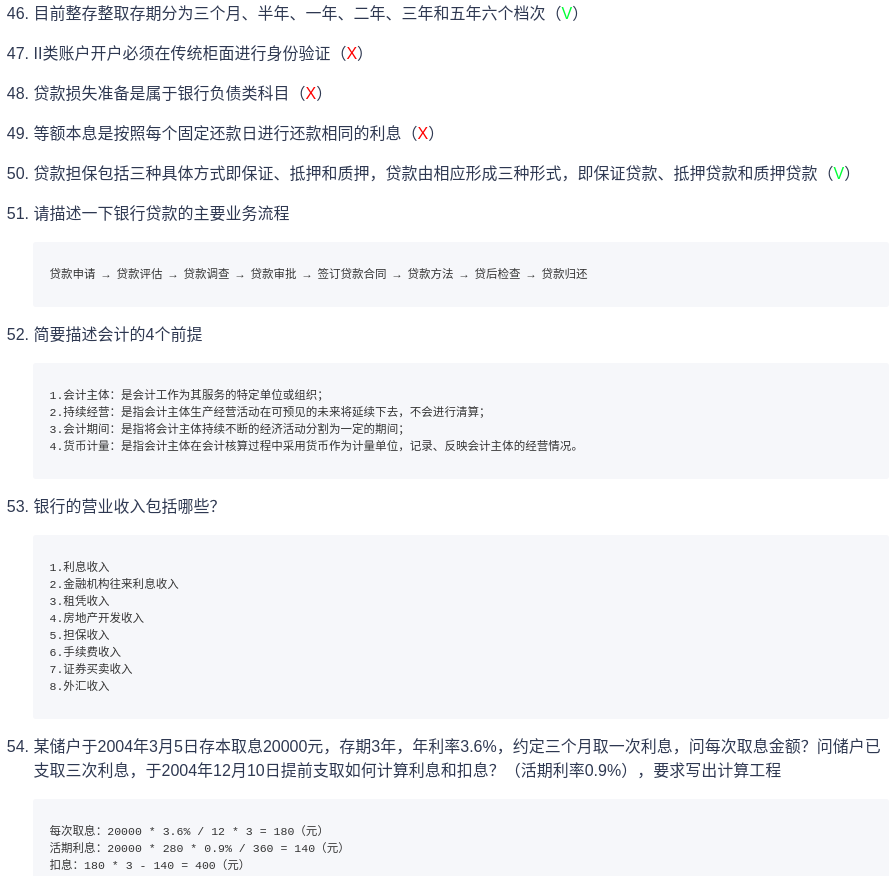
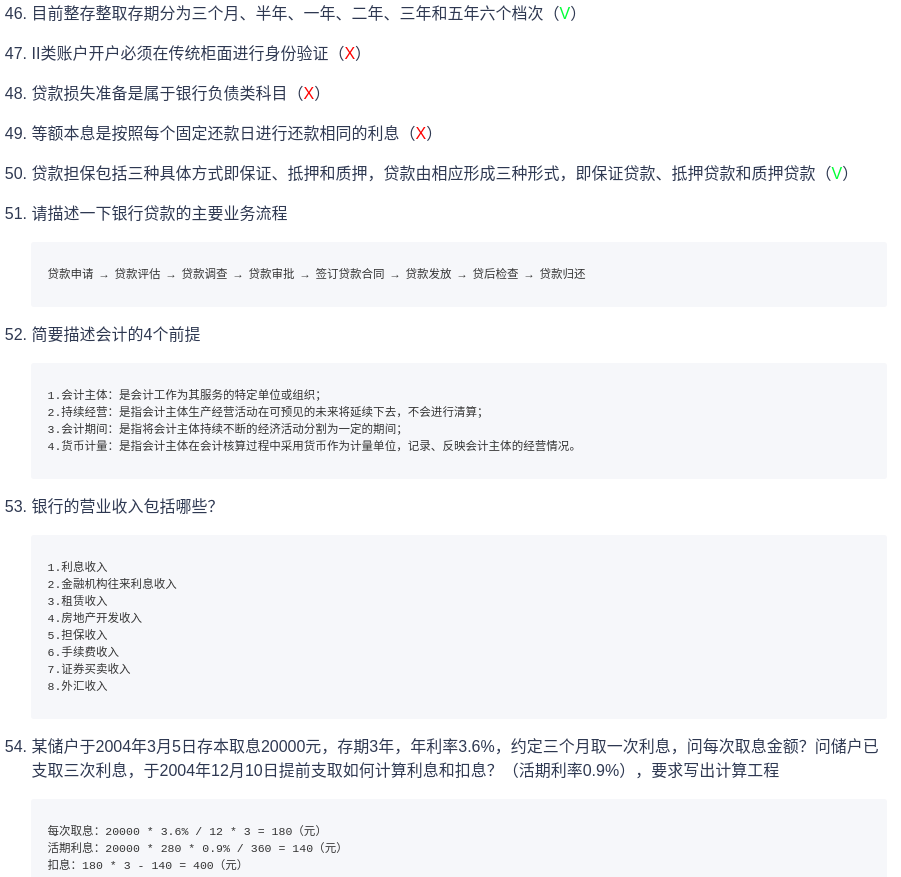
update 2020-12-23 08:55

diff --git a/source/_posts/DCITS.md b/source/_posts/DCITS.md
@@ -891,3 +891,121 @@ III类 | 同II类 | 限定金额的消费和缴费支付 | 账户余额不得超
 4. 逾期
     借：贷款-信用逾期贷款→资产性质的增加
     贷：贷款-信用贷款→资产性质的减少
+
+## 测试
+3. 所有者在企业资产中享有的经济效益是<u>**C.所有者权益**</u>
+4. 企业为取得收入而消耗的资产货币数额称为<u>**C.费用**</u>
+5. 开户单位之间的经济往来，除按规定的范围可以使用现金外，应当通过(<u>**C.开户银行**</u>)进行转账结束？
+6. 非盈利性单位经常用那种原则记账？<u>**D.收付实现制**</u>  权责发生制 应收应付制 划分收益性支出和资本性支出 收付实现制
+7. 汇票按照付款人不同，划分为？<u>**B.银行汇票和商业汇票**</u>
+8. 应收、应付、实收、实付分别属于？<u>**资产、负债、负债、资产**</u> 
+9. 负债的形成一定是由于？<u>**C.过去的交易、事项形成的现时义务**</u>
+10. 下列各项中，不属于资产类科目的是？<u>**B.预收账款**</u>
+11. 下列关于所有者权益类账户结构的表述中，正确的是？<u>**C.增加记贷方**</u>
+12. 企业库存现金账户期初余额为5000，本期增加发生额为3000，期末余额为2000，则本期减少发生额为()元？<u>**D.6000**</u>
+13. 我国现行的金融体制是以()为中央银行，国有商业银行为主体，各种金融并存...？<u>**C.人民银行**</u>
+14. 商业承兑汇票是由()印发和()承兑的？<u>**B.在银行开立账户的法人或其他组织、企业**</u>
+15. 支票是出票人签发的，委托办理支票存款业务的银行会其它金融机构在见票是()确定的金额给收款人或持票人的票据？<u>**D.无条件支付**</u>
+16. 票据贴现中再贴现的是？<u>**商业银行将汇票转让中央银行**</u>
+17. 下列哪项不是支票的种类？<u>**C.银行支票**</u>
+18. 银行最基本的职能是？<u>**D.信用中介**</u>
+19. ()是出票人（企业或银行）签发的，委托付款人在见票时或者在指定日期无条件支付确定的给收款人或持票人的票据？<u>**B.汇票**</u>
+20. 当商业银行在计算定期存款利息额时，采用()计算原则？<u>**C.都不是**</u>
+21. 个人账户张三于xxxx时间开立定活两使账户，一年后利率为？<u>**B.一年整存整取利率的0.6**</u>
+22. 下列哪个存款产品的特点是“利率较高，但受时间限制，一旦支取，损失巨大”？<u>**C.整存整取**</u>
+23. 以下不是教育储蓄的特点？<u>**B.取期灵活**</u>
+24. 以下哪种情况按照活期利率计息？<u>**A.通知存款未到通知期提前**</u>
+25. 存本取利的计息方式不包括？<u>**D.全部提前支取，从支取日其按活期**</u>
+26. 个人银行账户可分为？<u>**D.三类**</u>
+27. 银行卡的核心功能是？<u>**C.存款功能**</u>
+28. 贷款正常利息计算公式？<u>**C.贷款本金“天数”日利率**</u>
+29. 商业银行贷款资产根据贷款对象分为：<u>**B.工业、商业、农业、消费贷款**</u>
+30. 以下哪一项不是银团贷款的主要特点？<u>**B.贷款对象主要是中小企业**</u>
+31. 在编写会计分录时，对于损益类科目，余额增加记为借，余额减少记为贷（<font color=#FF000>X</font>）
+32. 会计科目是对会计要素的具体内容进行分类核算的项目，是进行会计核算和提供会计信息的基础（<font color=#00FF00>V</font>）
+33. 根据核算的经济内容不同，账户分为资产类、负债类、共同类、所有者权益、成本类和损益类账户（<font color=#00FF00>V</font>）
+34. 账户的功能在于连续、系统、完整地提供企业经济活动中各会计要素增减变动及其结果的目标信息（<font color=#00FF00>V</font>）
+35. 在借贷记账发下，借是表示增加，还是贷是增加，取决于账户的性质与所记录的经济内容的性质（<font color=#00FF00>V</font>）
+36. 单位定期存款利息的计算，其存款按对年、月、日计算，对年360,，对月按30，存期内利息按存入日的利率（<font color=#00FF00>V</font>）
+37. 由于活期存款余额变动较频繁，银行实际工作中通常采用累计日积数计息法计算利息（<font color=#00FF00>V</font>）
+38. 存款人不得违反规定在多家银行机构开立基本账户，但允许在同一银行的几个分支机构开立一般存款账户（<font color=#FF000>X</font>）
+39. 单位活期存款的利息计算采取利随本清的方法，而单位定期存款的利息则一般采取按季度计息的办法（<font color=#FF000>X</font>）
+40. 活期存款计算利息天数时，应遵循“算头又算尾”的方式...（<font color=#FF000>X</font>）
+41. 一般存款账户不能办理现金支取业务（<font color=#00FF00>V</font>）
+42. 个人通知存款是由账户一次存入本金，在有限的次数内支取款项，取款时需提前一天或七天通知银行（<font color=#00FF00>V</font>）
+43. 活期储蓄存款每季结息一次，结息日为季末月20日（<font color=#FF000>X</font>）
+44. 单位定期存款应在到期时一次支取，如到期不取，过期部分按活期利率（<font color=#00FF00>V</font>）
+45. 定活两便储蓄存款是指整笔存入，不约定存期，可随时续存续取，银行根据客户存款的实际存款按规定计息的一种储蓄（<font color=#00FF00>V</font>）
+46. 目前整存整取存期分为三个月、半年、一年、二年、三年和五年六个档次（<font color=#00FF00>V</font>）
+47. II类账户开户必须在传统柜面进行身份验证（<font color=#FF000>X</font>）
+48. 贷款损失准备是属于银行负债类科目（<font color=#FF000>X</font>）
+49. 等额本息是按照每个固定还款日进行还款相同的利息（<font color=#FF000>X</font>）
+50. 贷款担保包括三种具体方式即保证、抵押和质押，贷款由相应形成三种形式，即保证贷款、抵押贷款和质押贷款（<font color=#00FF00>V</font>）
+51. 请描述一下银行贷款的主要业务流程
+```text
+贷款申请 → 贷款评估 → 贷款调查 → 贷款审批 → 签订贷款合同 → 贷款发放 → 贷后检查 → 贷款归还
+```
+
+52. 简要描述会计的4个前提
+```text
+1.会计主体：是会计工作为其服务的特定单位或组织；
+2.持续经营：是指会计主体生产经营活动在可预见的未来将延续下去，不会进行清算；
+3.会计期间：是指将会计主体持续不断的经济活动分割为一定的期间；
+4.货币计量：是指会计主体在会计核算过程中采用货币作为计量单位，记录、反映会计主体的经营情况。
+```
+
+53. 银行的营业收入包括哪些？
+```text
+1.利息收入
+2.金融机构往来利息收入
+3.租赁收入
+4.房地产开发收入
+5.担保收入
+6.手续费收入
+7.证券买卖收入
+8.外汇收入
+```
+
+54. 某储户于2004年3月5日存本取息20000元，存期3年，年利率3.6%，约定三个月取一次利息，问每次取息金额？问储户已支取三次利息，于2004年12月10日提前支取如何计算利息和扣息？（活期利率0.9%），要求写出计算工程
+```text
+每次取息：20000 * 3.6% / 12 * 3 = 180（元）
+活期利息：20000 * 280 * 0.9% / 360 = 140（元）
+扣息：180 * 3 - 140 = 400（元）
+```
+
+55. 金星商厦向银行归还本金30000元，同时支付利息800，金额从其存款账户中支取，请写出会计分录，带金额
+```text
+借：银行活期30800元（负债性质减少）
+贷：应收现金30000元（资产性质减少）
+贷：应收利息800元（资产性质减少）
+```
+
+56. 张三去建设银行存活期1000,10天后产生了8元利息，觉得活期不划算，销户后又去工商银行存了定期，请问建设银行应该如何记账？请写出会计分录（带金额）
+```text
+1.存活期
+    借：现金1000元（资产性质增加）
+    贷：活期存款1000元（负债性质增加）
+2.销户
+    借：活期存款1000元（负债性质增加）
+    借：应付利息8元（负债性质增加）
+    贷：现金1008元（资产性质减少）
+```
+
+57. 请写出以下事例的会计分录（带金额），以下为银行记账：
+    a. 1月8日，向央行叫回现金60000；
+    ```text
+    借：央行存款60000元（资产性质增加）
+    贷：现金60000元（资产性质减少）
+    ```
+    b. 1月10日居民将活期存款32500，转定期
+    ```text
+    借：活期存款32500元（负债性质减少）
+    贷：定期存款32500元（负债性质增加）
+    ```
+    c. 某行12月末有相关账户如下，转入“本金利润”账户；主营业务收入300000，其它业务收入40000，营业外收入2300
+    ```text
+    借：本金利润342300元（资产性质增加）
+    贷：主营业务收入300000元（负债性质增加）
+    贷：其它业务收入40000元（负债性质增加）
+    贷：营业外收入2300元（负债性质增加）
+    ```
